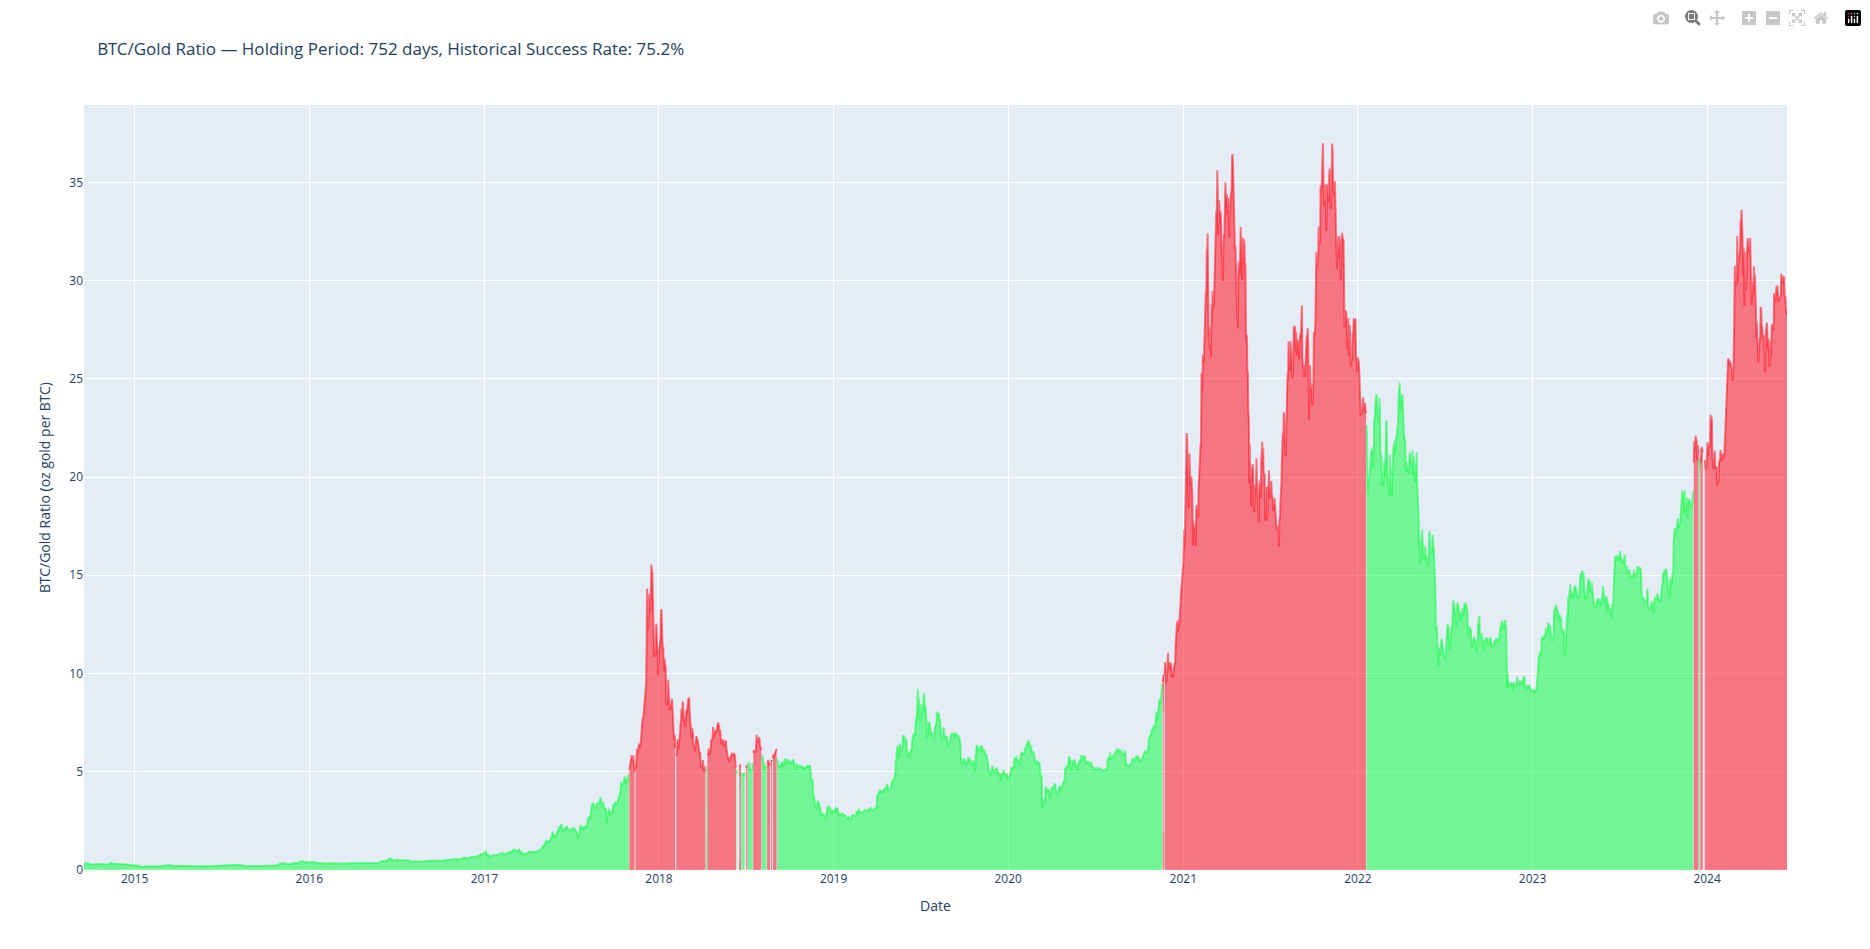
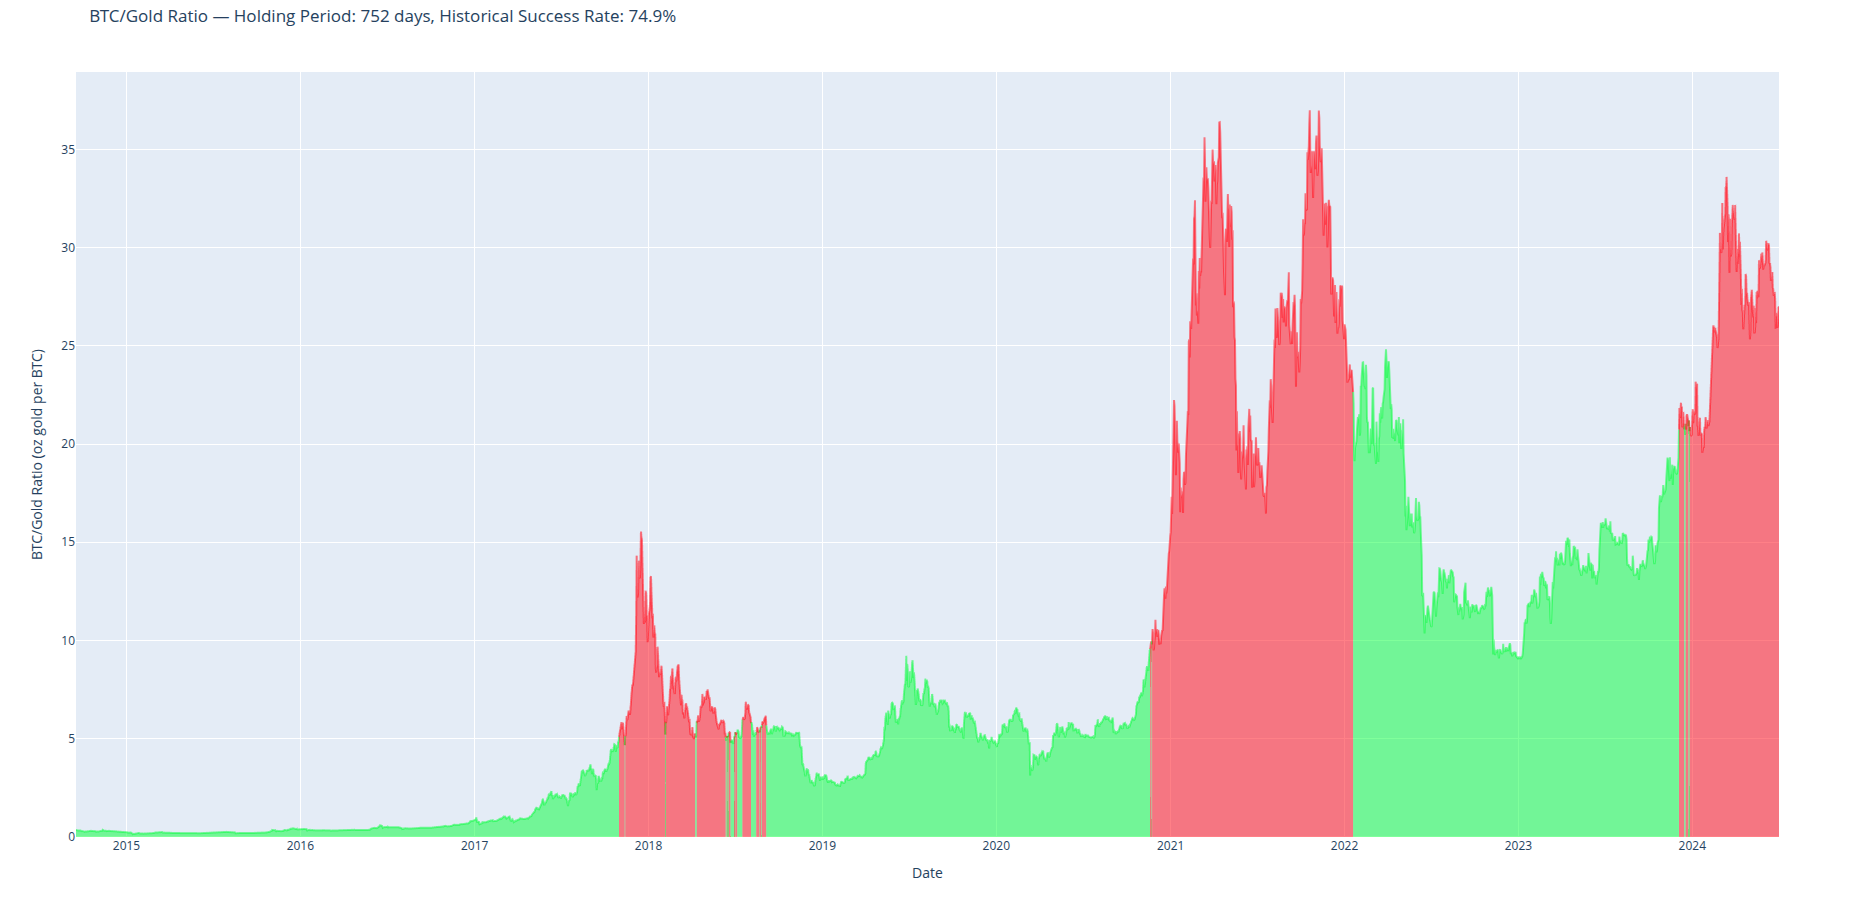
Fix unfilled gaps between chart segments in both renderers
Adjacent color segments did not share their boundary point, leaving an
unfilled sliver at every profitability transition. Single-day runs,
common at short holding periods, rendered as a lone point with no line
and no fill, producing visible multi-day blank spans.

Each segment now extends one point into the following segment, in
generate_chart (pandas concat of the next group's first row) and
computeSegments (slice end + 1, clamped on the final segment). The
interval between consecutive entry dates takes the earlier date's
color. Analytical output is unchanged; the defect was purely in the
rendering layer, outside the parity gate's scope by design.

Document the boundary extension in both app READMEs and the
computeSegments JSDoc. [Regenerate README screenshots with the fixed
renderer.]

diff --git a/web/core.js b/web/core.js
@@ -89,6 +89,9 @@ function calculateSuccessRate(profitable) {
 
 /**
  * Detect contiguous runs of same profitability for chart coloring.
+ * Each segment includes the next segment's first point so adjacent
+ * fills share their boundary and single-point runs still render; the
+ * borrowed point's flag is ignored since color reads from the run's start.
  * Mirrors generate_chart's segment logic:
  *   (profitable != profitable.shift()).cumsum()
  *
@@ -103,8 +106,8 @@ function computeSegments(dates, ratio, profitable) {
   for (var i = 1; i <= profitable.length; i++) {
     if (i === profitable.length || profitable[i] !== profitable[segStart]) {
       segments.push({
-        dates: dates.slice(segStart, i),
-        ratios: ratio.slice(segStart, i),
+        dates: dates.slice(segStart, i + 1),
+        ratios: ratio.slice(segStart, i + 1),
         profitable: profitable[segStart],
       });
       segStart = i;

diff --git a/cli/project.py b/cli/project.py
@@ -108,7 +108,14 @@ def generate_chart(
     fig = go.Figure()
 
     # iterate fill color by segment
-    for _, segment_df in ratio_df.groupby("segment"):
+    segment_frames = [frame for _, frame in ratio_df.groupby("segment")]
+    for i, segment_df in enumerate(segment_frames):
+        # extend each segment with the next segment's first row so adjacent
+        # fills share their boundary point (no unfilled sliver, and one-point
+        # runs still render). the borrowed row's profitable value is
+        # deliberately ignored: color reads from the segment's first row.
+        if i + 1 < len(segment_frames):
+            segment_df = pd.concat([segment_df, segment_frames[i + 1].iloc[[0]]])
         color = (
             "rgba(0, 255, 0, 0.5)"
             if segment_df["profitable"].iloc[0]

diff --git a/cli/README.md b/cli/README.md
@@ -77,7 +77,9 @@ The refactor was done with a characterization-test first: the loop's exact outpu
 
 **Segment-based chart coloring.** The commonly known way to get a two-color fill in Plotly is the "NaN trick": two traces, one green and one red, each holding `NaN` wherever the other color applies. It doesn't work with `fill="tozeroy"` and that is a known Plotly.js rendering bug, and the result was the entire area filled brown.
 
-The working approach detects same-color runs with `(profitable != profitable.shift()).cumsum()`, splits the frame on those runs, and adds one filled trace per run. This lives in the rendering layer rather than being extracted into the analysis core, because segmenting a series for the renderer's benefit is a rendering concern. It has no analytical meaning.
+The working approach detects same-color runs with `(profitable != profitable.shift()).cumsum()`, splits the frame on those runs, and adds one filled trace per run. Each segment is then extended by one point or day to the next, closing what otherwise would be an apparent gap between each segment. One day runs would otherwise appear as blank gaps. The area between one entry date and the next therefore takes the earlier date's color: the region to the right of a point represents that point's window outcome.
+
+This lives in the rendering layer rather than being extracted into the analysis core, because segmenting a series for the renderer's benefit is a rendering concern. It has no analytical meaning. 
 
 **Holding-period guard.** `compute_windows` rejects a holding period of `len(ratio_df) - 1` or greater. That looks like an off-by-one. It isn't. Yes, a period of `len(ratio_df) - 1` still yields a single surviving window, and Plotly renders it without complaint: one point, no line, no fill, no color, a chart that shows nothing. However, two points is the minimum that renders as a chart with meaningful information, so two points is the floor the guard enforces. This is a UX decision, settled by hand-tracing the output rather than by argument alone.
 

diff --git a/web/README.md b/web/README.md
@@ -55,7 +55,9 @@ The refactor was done with a characterization-test first: the loop's exact outpu
 
 **Segment-based chart coloring.** The commonly known way to get a two-color fill in Plotly is the "NaN trick": two traces, one green and one red, each holding `NaN` wherever the other color applies. It doesn't work with `fill="tozeroy"` and that is a known Plotly.js rendering bug, and the result was the entire area filled brown.
 
-The working approach detects same-color runs with `(profitable != profitable.shift()).cumsum()`, splits the frame on those runs, and adds one filled trace per run. This lives in the rendering layer rather than being extracted into the analysis core, because segmenting a series for the renderer's benefit is a rendering concern. It has no analytical meaning.
+The working approach detects same-color runs with `(profitable != profitable.shift()).cumsum()`, splits the frame on those runs, and adds one filled trace per run. Each segment is then extended by one point or day to the next, closing what otherwise would be an apparent gap between each segment. One day runs would otherwise appear as blank gaps. The area between one entry date and the next therefore takes the earlier date's color: the region to the right of a point represents that point's window outcome.
+
+This lives in the rendering layer rather than being extracted into the analysis core, because segmenting a series for the renderer's benefit is a rendering concern. It has no analytical meaning.
 
 **Holding-period guard.** `compute_windows` rejects a holding period of `len(ratio_df) - 1` or greater. That looks like an off-by-one. It isn't. Yes, a period of `len(ratio_df) - 1` still yields a single surviving window, and Plotly renders it without complaint: one point, no line, no fill, no color, a chart that shows nothing. However, two points is the minimum that renders as a chart with meaningful information, so two points is the floor the guard enforces. This is a UX decision, settled by hand-tracing the output rather than by argument alone.
 

diff --git a/README.md b/README.md
@@ -13,7 +13,7 @@ The proportion of all possible entry dates on which bitcoin went on to outperfor
 | Short holds | Long holds |
 |:---:|:---:|
 | ![BTC/Gold ratio, 30-day hold — green and red windows in roughly even stripes](assets/chart-30d.png) | ![BTC/Gold ratio, 752-day hold — mostly green with occasional red bands](assets/chart-752d.png) |
-| Gold base, 30-day hold · as of 2026-07-14 · near even | Gold base, 752-day hold · as of 2026-07-14 · 75.2% of windows profitable |
+| Gold base, 30-day hold · as of 2026-07-23 · near even | Gold base, 752-day hold · as of 2026-07-23 · 74.9% of windows profitable |
 
 
 ## What this answers